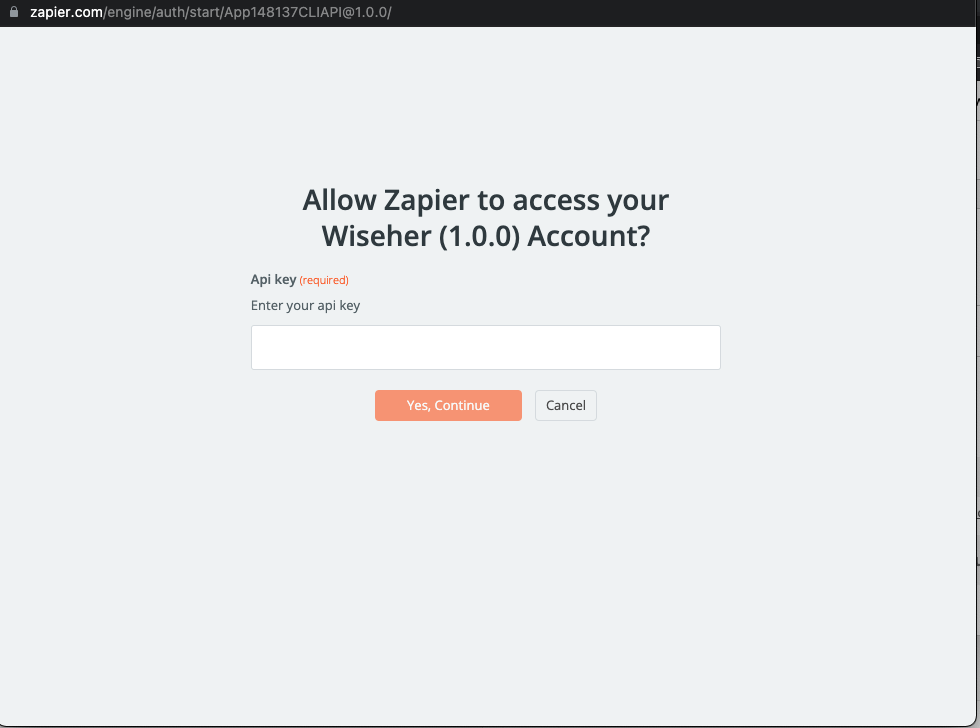
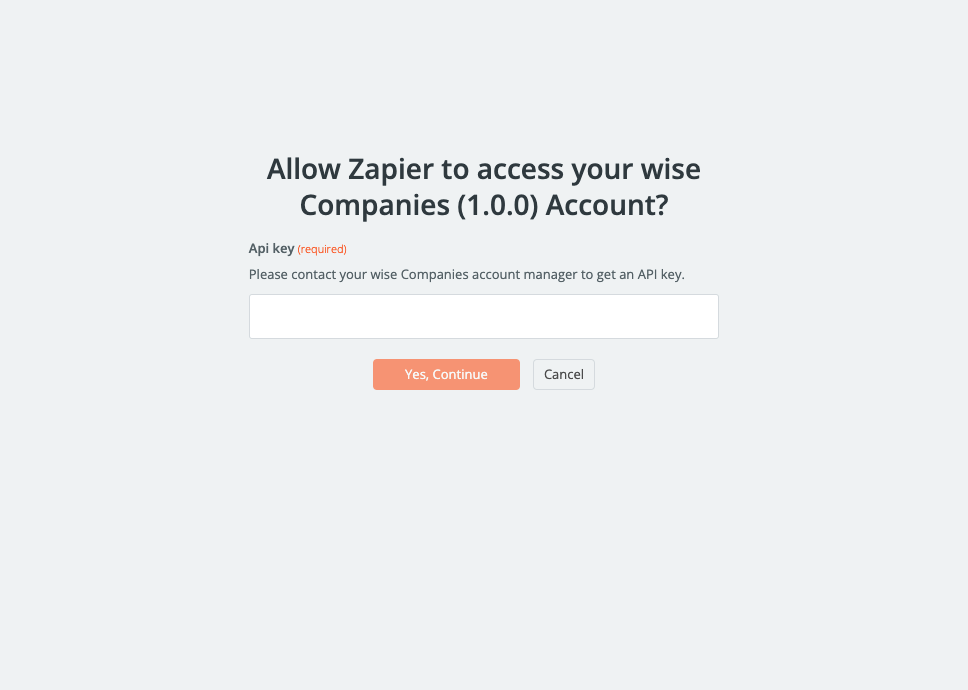
updated doc

diff --git a/index.html b/index.html
@@ -8,9 +8,9 @@
 <body>
 	<section class="content">
 		<h1>Integrate with Zapier</h1>
-		<h2>How to create a Zapier Integration with WiseHer</h2>
+		<h2>How to create a Zapier Integration with "wise Companies"</h2>
 		<p>
-			When WiseHer and Zapier have been connected, you can create Zaps based on several different triggers, to get started:
+			When <strong><i>wise Companies</i></strong> and Zapier have been connected, you can create Zaps based on several different triggers, to get started:
 		</p>
 
 		<p>
@@ -21,7 +21,7 @@
 		<h3>1. Select a Trigger</h3>
 		<p>
 			A trigger is an event that starts a Zap. Once you've set up a Zap, Zapier will monitor for that trigger event.
-			Example. If you want to know when new user was registered in WiseHer, you can select related trigger
+			Example. If you want to know when new user was registered in <strong><i>wise Companies</i></strong>, you can select related trigger
 			(please see configure options bellow)
 		</p>
 
@@ -48,7 +48,7 @@
 
 		<h3>4. Configure your Trigger</h3>
 		<h4>New User</h4>
-		<p><strong><i>Description</i></strong> Provide information after user register in WiseHer.</p>
+		<p><strong><i>Description</i></strong> Provide information after user register.</p>
 		<strong><i>Available fields:</i></strong>
 		<ul>
 			<li>First Name: The first name of the user.</li>
